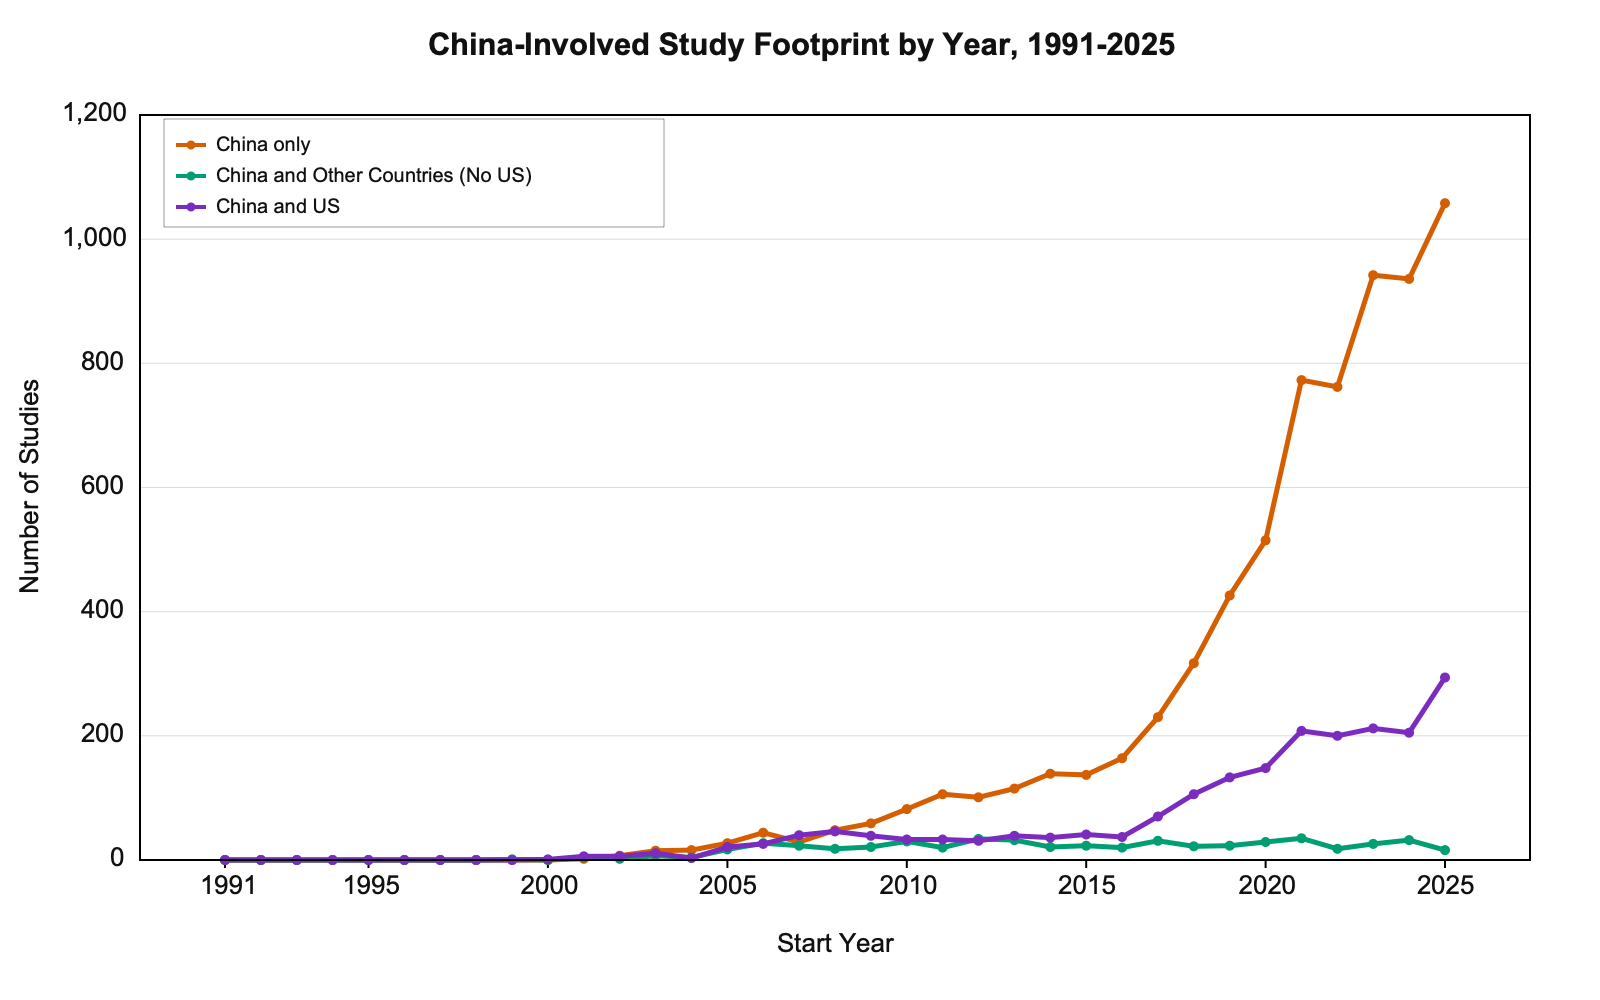
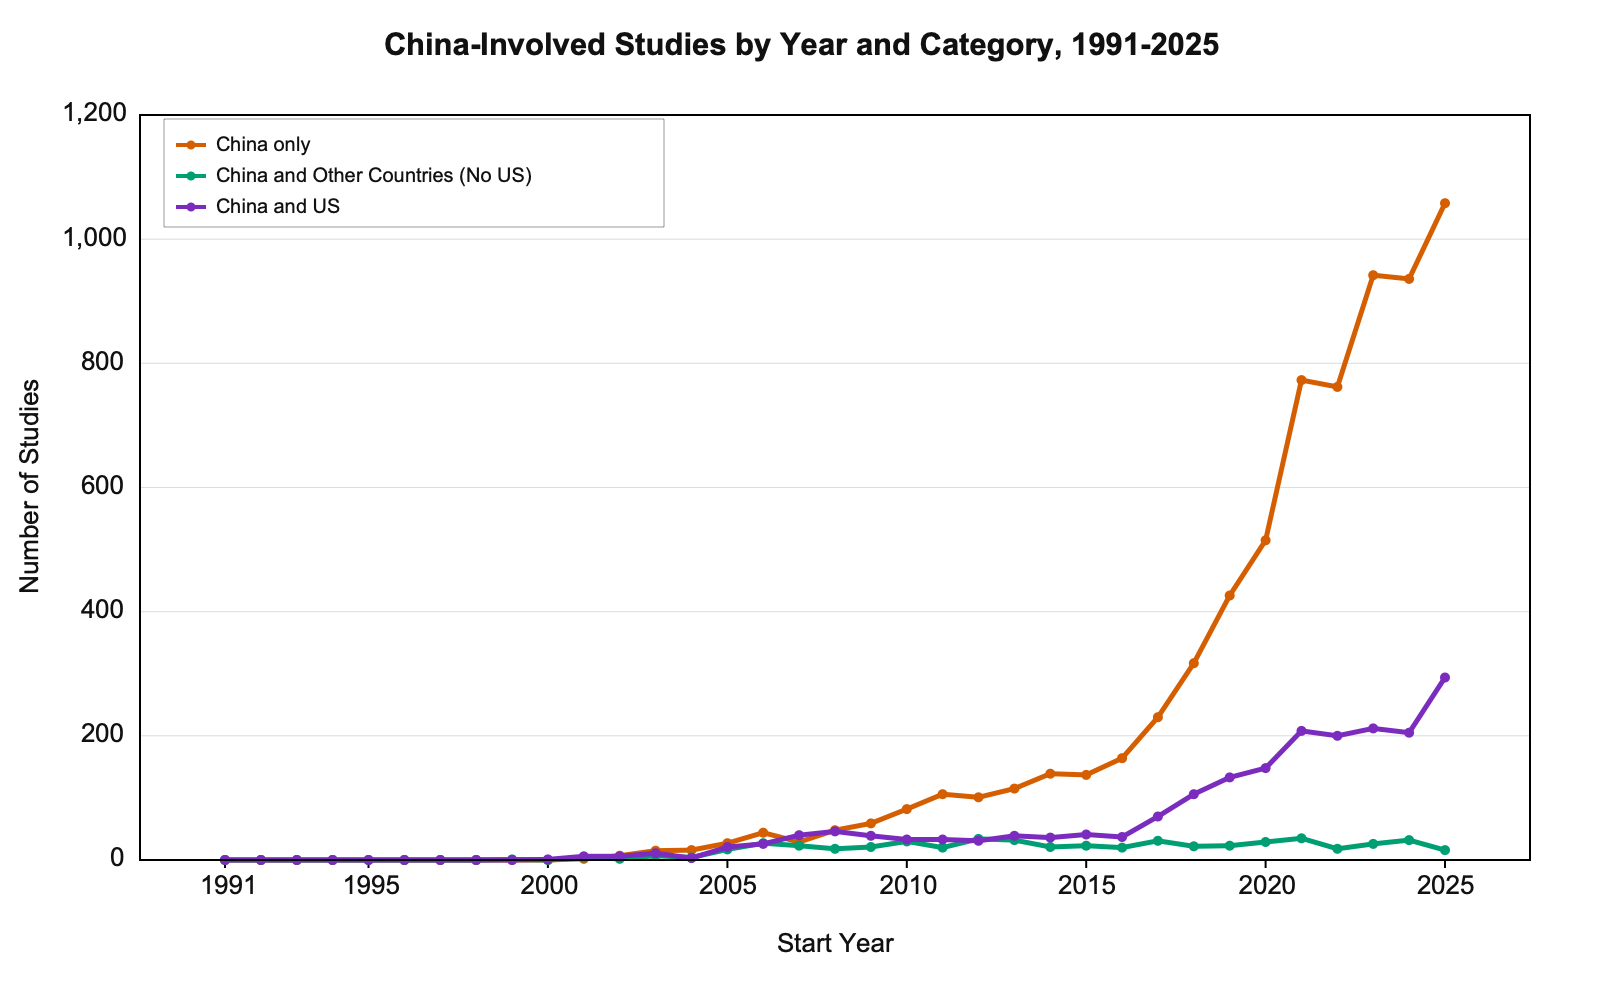
title updated

Changed region(s): [[0.2188, 0.031, 0.7812, 0.062]]

diff --git a/china_involvement_charts.py b/china_involvement_charts.py
@@ -181,7 +181,7 @@ def footprint_chart_svg(rows: list[dict], path: Path, title: str | None = None) 
         f'<svg xmlns="http://www.w3.org/2000/svg" width="{width}" height="{height}" viewBox="0 0 {width} {height}">',
         f'<rect width="{width}" height="{height}" fill="#fff"/>',
         '<style>text{font-family:Arial,Helvetica,sans-serif;fill:#111}.title{font-size:31px;font-weight:700}.axis{font-size:26px}.tick{font-size:26px}.legend{font-size:20px}</style>',
-        f'<text x="800" y="55" text-anchor="middle" class="title">{html.escape(title or f"China-Involved Study Footprint by Year, {years[0]}-{years[-1]}")}</text>',
+        f'<text x="800" y="55" text-anchor="middle" class="title">{html.escape(title or f"China-Involved Studies by Year and Category, {years[0]}-{years[-1]}")}</text>',
     ]
     for value in range(0, y_max + 1, y_step):
         yy = y(value)
